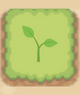
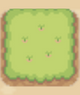
Harvest + Info

diff --git a/lotClass.java b/lotClass.java
@@ -16,24 +16,39 @@ import javax.swing.border.CompoundBorder;
 public class lotClass{
     private JFrame frame1;
     static JButton lotBtn[][] = new JButton[5][10];
-    static ImageIcon pGrass;
-    static ImageIcon nGrass;
+    static ImageIcon plowed;
     static ImageIcon unplowed;
     static ImageIcon rocks;
     static ImageIcon wPlant;
     static ImageIcon gPlant;
+    static ImageIcon turnip;
+    static ImageIcon carrot;
+    static ImageIcon potato;
+    static ImageIcon rose;
+    static ImageIcon tulips;
+    static ImageIcon sunflower;
+    static ImageIcon mango;
+    static ImageIcon apple;
+
 
     public lotClass(JFrame frame1, MyFarm myfarm, int[] SelectedLot){
         this.frame1 = new JFrame();
 
         JPanel lotPanel = new JPanel();
 
-        pGrass = new ImageIcon("pGrass.png");
-        nGrass = new ImageIcon("nGrass.png");
+        plowed = new ImageIcon("pGrass.png");
         unplowed = new ImageIcon("unplowed.png");
         rocks = new ImageIcon("rocks.png");
         wPlant = new ImageIcon("Wplant.png");
-        gPlant = new ImageIcon("Gplant.png");
+        gPlant = new ImageIcon("gPlant.png");
+        turnip = new ImageIcon("turnipGrown.png");
+        carrot = new ImageIcon("carrotGrown.png");
+        potato = new ImageIcon("potatoGrown.png");
+        rose = new ImageIcon("roseGrown.png");
+        tulips = new ImageIcon("tulipGrown.png");
+        sunflower = new ImageIcon("sunflowerGrown.png");
+        mango = new ImageIcon("mangoTree.png");
+        apple = new ImageIcon("appleTree.png");
 
         lotPanel.setBackground(new Color(0xe7cda3));
         lotPanel.setBorder(new CompoundBorder(
@@ -54,6 +69,21 @@ public class lotClass{
                             {
                                 SelectedLot[0] = i; 
                                 SelectedLot[1] = j;
+                                if(myfarm.getFarm()[SelectedLot[0]][SelectedLot[1]].getCrop() instanceof Crop)
+                                {
+                                    if(myfarm.getFarm()[SelectedLot[0]][SelectedLot[1]].getCrop().CheckStatus() == 1)
+                                    {
+                                        seedClass.updateHarvest();
+                                    }
+                                    else
+                                    {
+                                        seedClass.updateInfo();
+                                    }
+                                }
+                                else
+                                {
+                                    seedClass.update();
+                                }
                             }
                         }
                     }
@@ -93,7 +123,7 @@ public class lotClass{
             {
                 if(myfarm.getFarm()[i][j].getPlowed())
                 {
-                    lotBtn[i][j].setIcon(nGrass);
+                    lotBtn[i][j].setIcon(plowed);
                 }
                 if(myfarm.getFarm()[i][j].getPlowed() == true && myfarm.getFarm()[i][j].getCrop() instanceof Crop)
                 {
@@ -103,7 +133,40 @@ public class lotClass{
                     }
                     else if(myfarm.getFarm()[i][j].getCrop().CheckStatus() == 1)
                     {
-                        lotBtn[i][j].setIcon(pGrass);
+                        switch(myfarm.getFarm()[i][j].getCrop().getName())
+                        {
+                            case "Turnip":
+                                lotBtn[i][j].setIcon(turnip);
+                                break;
+
+                            case "Carrot":
+                                lotBtn[i][j].setIcon(carrot);
+                                break;
+
+                            case "Potato":
+                                lotBtn[i][j].setIcon(potato);
+                                break;
+
+                            case "Rose":
+                                lotBtn[i][j].setIcon(rose);
+                                break;
+
+                            case "Tulips":
+                                lotBtn[i][j].setIcon(tulips);
+                                break;
+
+                            case "Sunflower":
+                                lotBtn[i][j].setIcon(sunflower);
+                                break;
+
+                            case "Mango":
+                                lotBtn[i][j].setIcon(mango);
+                                break;
+
+                            case "Apple":
+                                lotBtn[i][j].setIcon(apple);
+                                break;
+                        }
                     }
                     else if(myfarm.getFarm()[i][j].getCrop().CheckStatus() == 2)
                     {

diff --git a/seedClass.java b/seedClass.java
@@ -15,6 +15,8 @@ import javax.swing.border.CompoundBorder;
 
 public class seedClass{
     private JFrame frame1;
+    static JButton harvestBtn;
+    static JButton infoBtn;
 
     public seedClass(JFrame frame1, MyFarm myfarm, Farmer myfarmer, int[] SelectedLot){
         this.frame1 = new JFrame();
@@ -27,7 +29,8 @@ public class seedClass{
         ImageIcon sunflower = new ImageIcon("sunflower.png");
         ImageIcon mangoTree = new ImageIcon("mango.png");
         ImageIcon appleTree = new ImageIcon("apple.png");
-        ImageIcon harvestButton = new ImageIcon("apple.png");
+        ImageIcon harvestButton = new ImageIcon("harvest.gif");
+        ImageIcon InfoButton = new ImageIcon("info.png");
 
         JButton turnipBtn = new JButton();
         turnipBtn.setIcon(turnipPlant);
@@ -378,14 +381,40 @@ public class seedClass{
             }
         });
 
-        JButton harvestBtn = new JButton();
-        harvestBtn.setIcon(appleTree);
+        harvestBtn = new JButton();
+        harvestBtn.setIcon(harvestButton);
         harvestBtn.setBackground(new Color(0xE3D308));
         harvestBtn.setContentAreaFilled(true);
         harvestBtn.setBorder(BorderFactory.createEmptyBorder());
         harvestBtn.addActionListener(new ActionListener(){
             @Override
-            public void actionPerformed(ActionEvent e){}
+            public void actionPerformed(ActionEvent e)
+            {
+                if (myfarmer.harvestCrop(myfarm.getFarm()[SelectedLot[0]][SelectedLot[1]]))
+                {
+                    Welcome.updateData(myfarm, myfarmer);
+                    lotClass.Updatebutton(myfarm);
+                    JOptionPane.showMessageDialog(null, "Results of Harvest \n" +  "Harvested " + myfarm.getFarm()[SelectedLot[0]][SelectedLot[1]].getCrop().getProducts() + " " + myfarm.getFarm()[SelectedLot[0]][SelectedLot[1]].getCrop().getName() + "\nObjectCoin Earned: " + myfarm.getFarm()[SelectedLot[0]][SelectedLot[1]].getCrop().getFinalHarvestPrice(), 
+                                            null, JOptionPane.INFORMATION_MESSAGE);
+                    Welcome.updateData(myfarm, myfarmer);
+                    seedClass.update();
+                }
+            }
+        });
+
+        infoBtn = new JButton();
+        infoBtn.setIcon(InfoButton);
+        infoBtn.setBackground(new Color(0xE3D308));
+        infoBtn.setContentAreaFilled(true);
+        infoBtn.setBorder(BorderFactory.createEmptyBorder());
+        infoBtn.addActionListener(new ActionListener(){
+            @Override
+            public void actionPerformed(ActionEvent e)
+            {
+                JOptionPane.showMessageDialog(null, "Plant Status \n" + myfarm.getFarm()[SelectedLot[0]][SelectedLot[1]].getCrop().getName() + "\n# of Times Watered:  " + myfarm.getFarm()[SelectedLot[0]][SelectedLot[1]].getCrop().getTimesWatered() + "\n# of Times Fertilized: " + myfarm.getFarm()[SelectedLot[0]][SelectedLot[1]].getCrop().getTimesFertilized() + "\nDays old: " + myfarm.getFarm()[SelectedLot[0]][SelectedLot[1]].getCrop().getPlantedDays(), 
+                                            null, JOptionPane.INFORMATION_MESSAGE);
+                seedClass.update();
+            }
         });
 
         JPanel seedPanel = new JPanel();
@@ -404,8 +433,30 @@ public class seedClass{
         seedPanel.add(sunflowerBtn);
         seedPanel.add(mangoBtn);
         seedPanel.add(appleBtn);
+        seedPanel.add(harvestBtn);
+        seedPanel.add(infoBtn);
 
         frame1.add(seedPanel, BorderLayout.SOUTH);
 
+        update();
     }
+
+    public static void updateHarvest()
+    {
+        harvestBtn.setVisible(true);
+        infoBtn.setVisible(false);
+    }
+
+    public static void updateInfo()
+    {
+        harvestBtn.setVisible(false);
+        infoBtn.setVisible(true);
+    }
+
+    public static void update()
+    {
+        harvestBtn.setVisible(false);
+        infoBtn.setVisible(false);
+    }
+
 }

diff --git a/Welcome.java b/Welcome.java
@@ -21,7 +21,6 @@ import javax.swing.border.CompoundBorder;
 public class Welcome {
     private JFrame frame1;
     String farmername;
-    static JLabel seedLabel;
     static JLabel objectCoinLabel;
     static JLabel farmerLevelLabel;
     static JLabel farmerTypeLabel;
@@ -149,7 +148,6 @@ public class Welcome {
         welcomePanel.add(farmerNameText);
         welcomePanel.add(farmerNameLbl);
         welcomePanel.add(enterNameBtn);
-        welcomePanel.add(seedLabel);
         welcomePanel.add(objectCoinLabel);
         welcomePanel.add(farmerLevelLabel);
         welcomePanel.add(farmerTypeLabel);
@@ -162,7 +160,6 @@ public class Welcome {
 
     public static void updateData(MyFarm myfarm, Farmer myfarmer)
     {
-        seedLabel.setText("Harvested: ");
         objectCoinLabel.setText(String.valueOf(myfarmer.getObjectCoin()));
         farmerLevelLabel.setText("Farmer Level: " + myfarmer.getLevel());
         farmerTypeLabel.setText("Farmer Type: " + myfarmer.getType().getName());

diff --git a/MyFarm.java b/MyFarm.java
@@ -26,7 +26,7 @@ public class MyFarm
   public void setGame()
   {
     Seed turnip = new Seed("Turnip", "Root Crop", 2, 1, 2, 0, 1, 1, 2, 5, 6, 5);
-    Seed carrot = new Seed("Carot","Root Crop",3,1,2,0,1,1,2,10,9,7.5);
+    Seed carrot = new Seed("Carrot","Root Crop",3,1,2,0,1,1,2,10,9,7.5);
     Seed potato = new Seed("Potato", "Root Crop", 5, 3, 4, 1, 2, 1, 10, 20, 3, 12.5);
     Seed rose = new Seed("Rose", "Flower", 1, 1, 2, 0, 1, 1, 1, 5, 5, 2.5);
     Seed tulips = new Seed("Tulips", "Flower", 2, 2, 3, 0, 1, 1, 1, 10, 9, 5);

diff --git a/GuiDriver.java b/GuiDriver.java
@@ -8,7 +8,7 @@ public class GuiDriver {
         JFrame frame1 = new JFrame();
         frame1.setTitle("My Farming Adventures");
         frame1.setDefaultCloseOperation(JFrame.EXIT_ON_CLOSE);
-        frame1.setSize(1000, 700);
+        frame1.setSize(1050, 700);
         frame1.setResizable(false);
         frame1.setLayout(new BorderLayout());
         

diff --git a/Crop.java b/Crop.java
@@ -147,4 +147,14 @@ public class Crop extends Seed
     {
         return FinalHarvestPrice;
     }
+
+    public int getTimesWatered()
+    {
+        return TimesWatered;
+    }
+
+    public int getTimesFertilized()
+    {
+        return TimesFertilized;
+    }
 }

diff --git a/Farmer.java b/Farmer.java
@@ -102,6 +102,7 @@ public class Farmer
         objectCoin = objectCoin + lot.getCrop().getFinalHarvestPrice();
 
         lot.UnPlowLot();
+        lot.RemoveCrop();
 
         value = true;
         return value;

diff --git a/tempCodeRunnerFile.java b/tempCodeRunnerFile.java
@@ -1,0 +1,1 @@
+public class GuiDriver {
